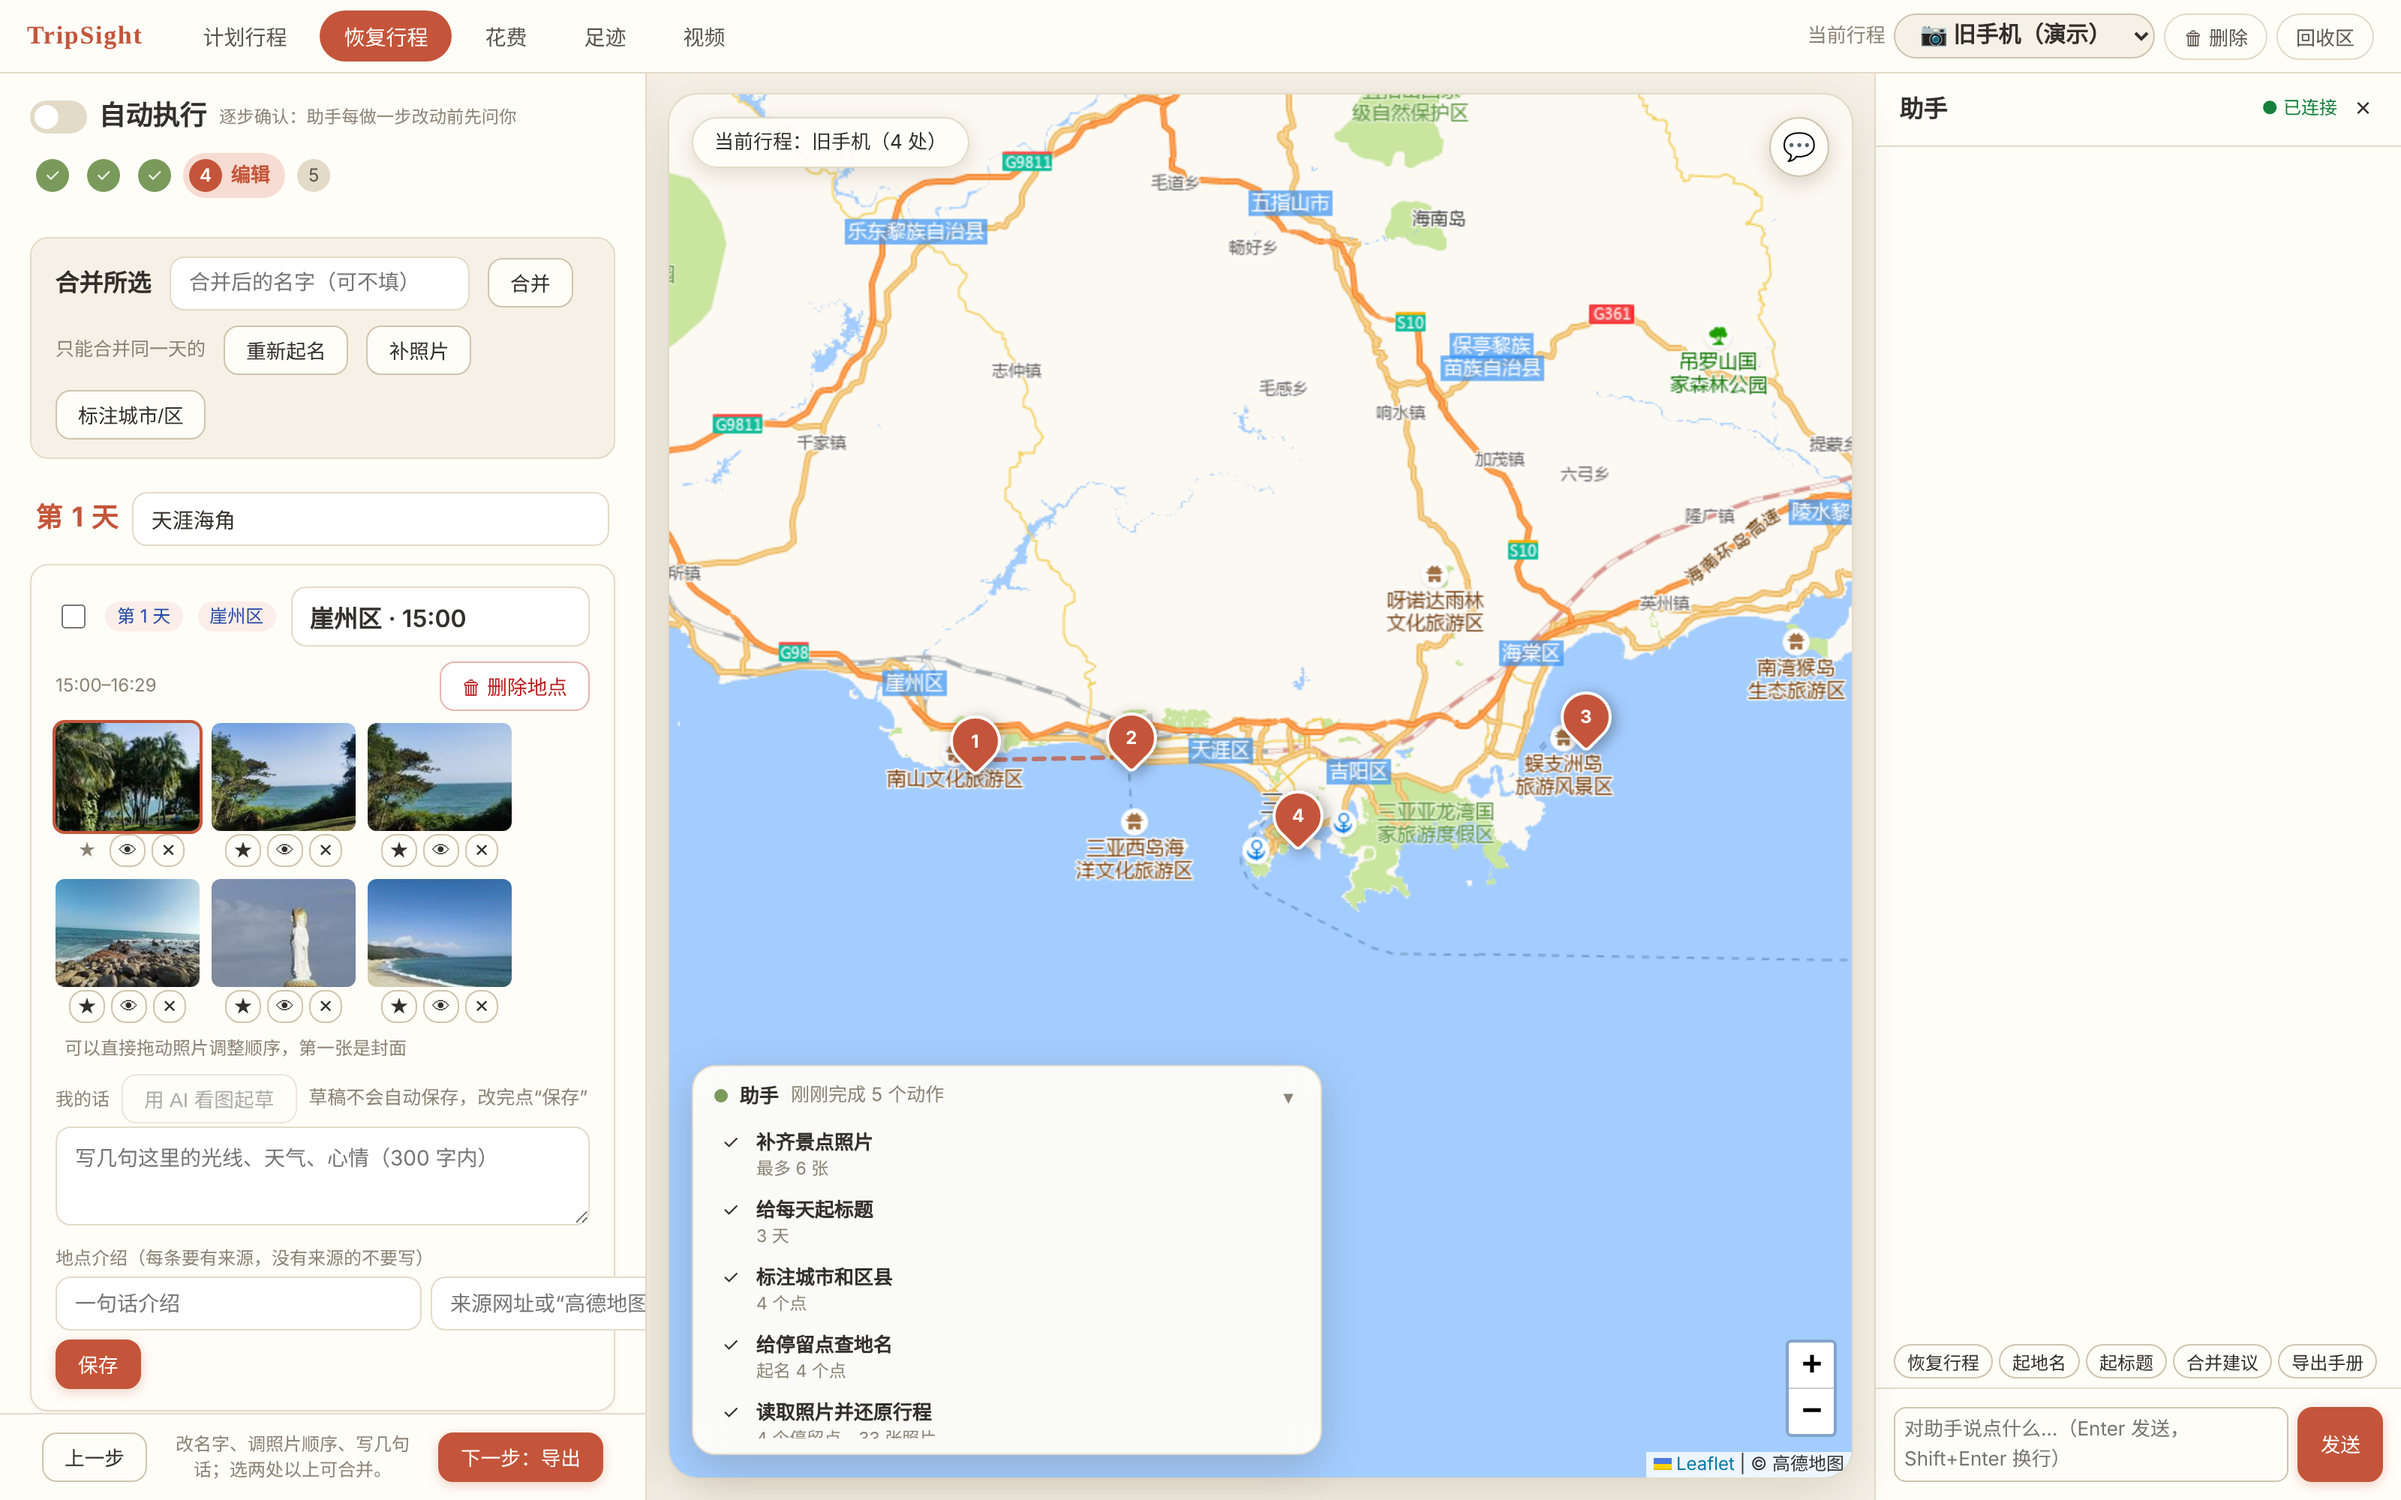
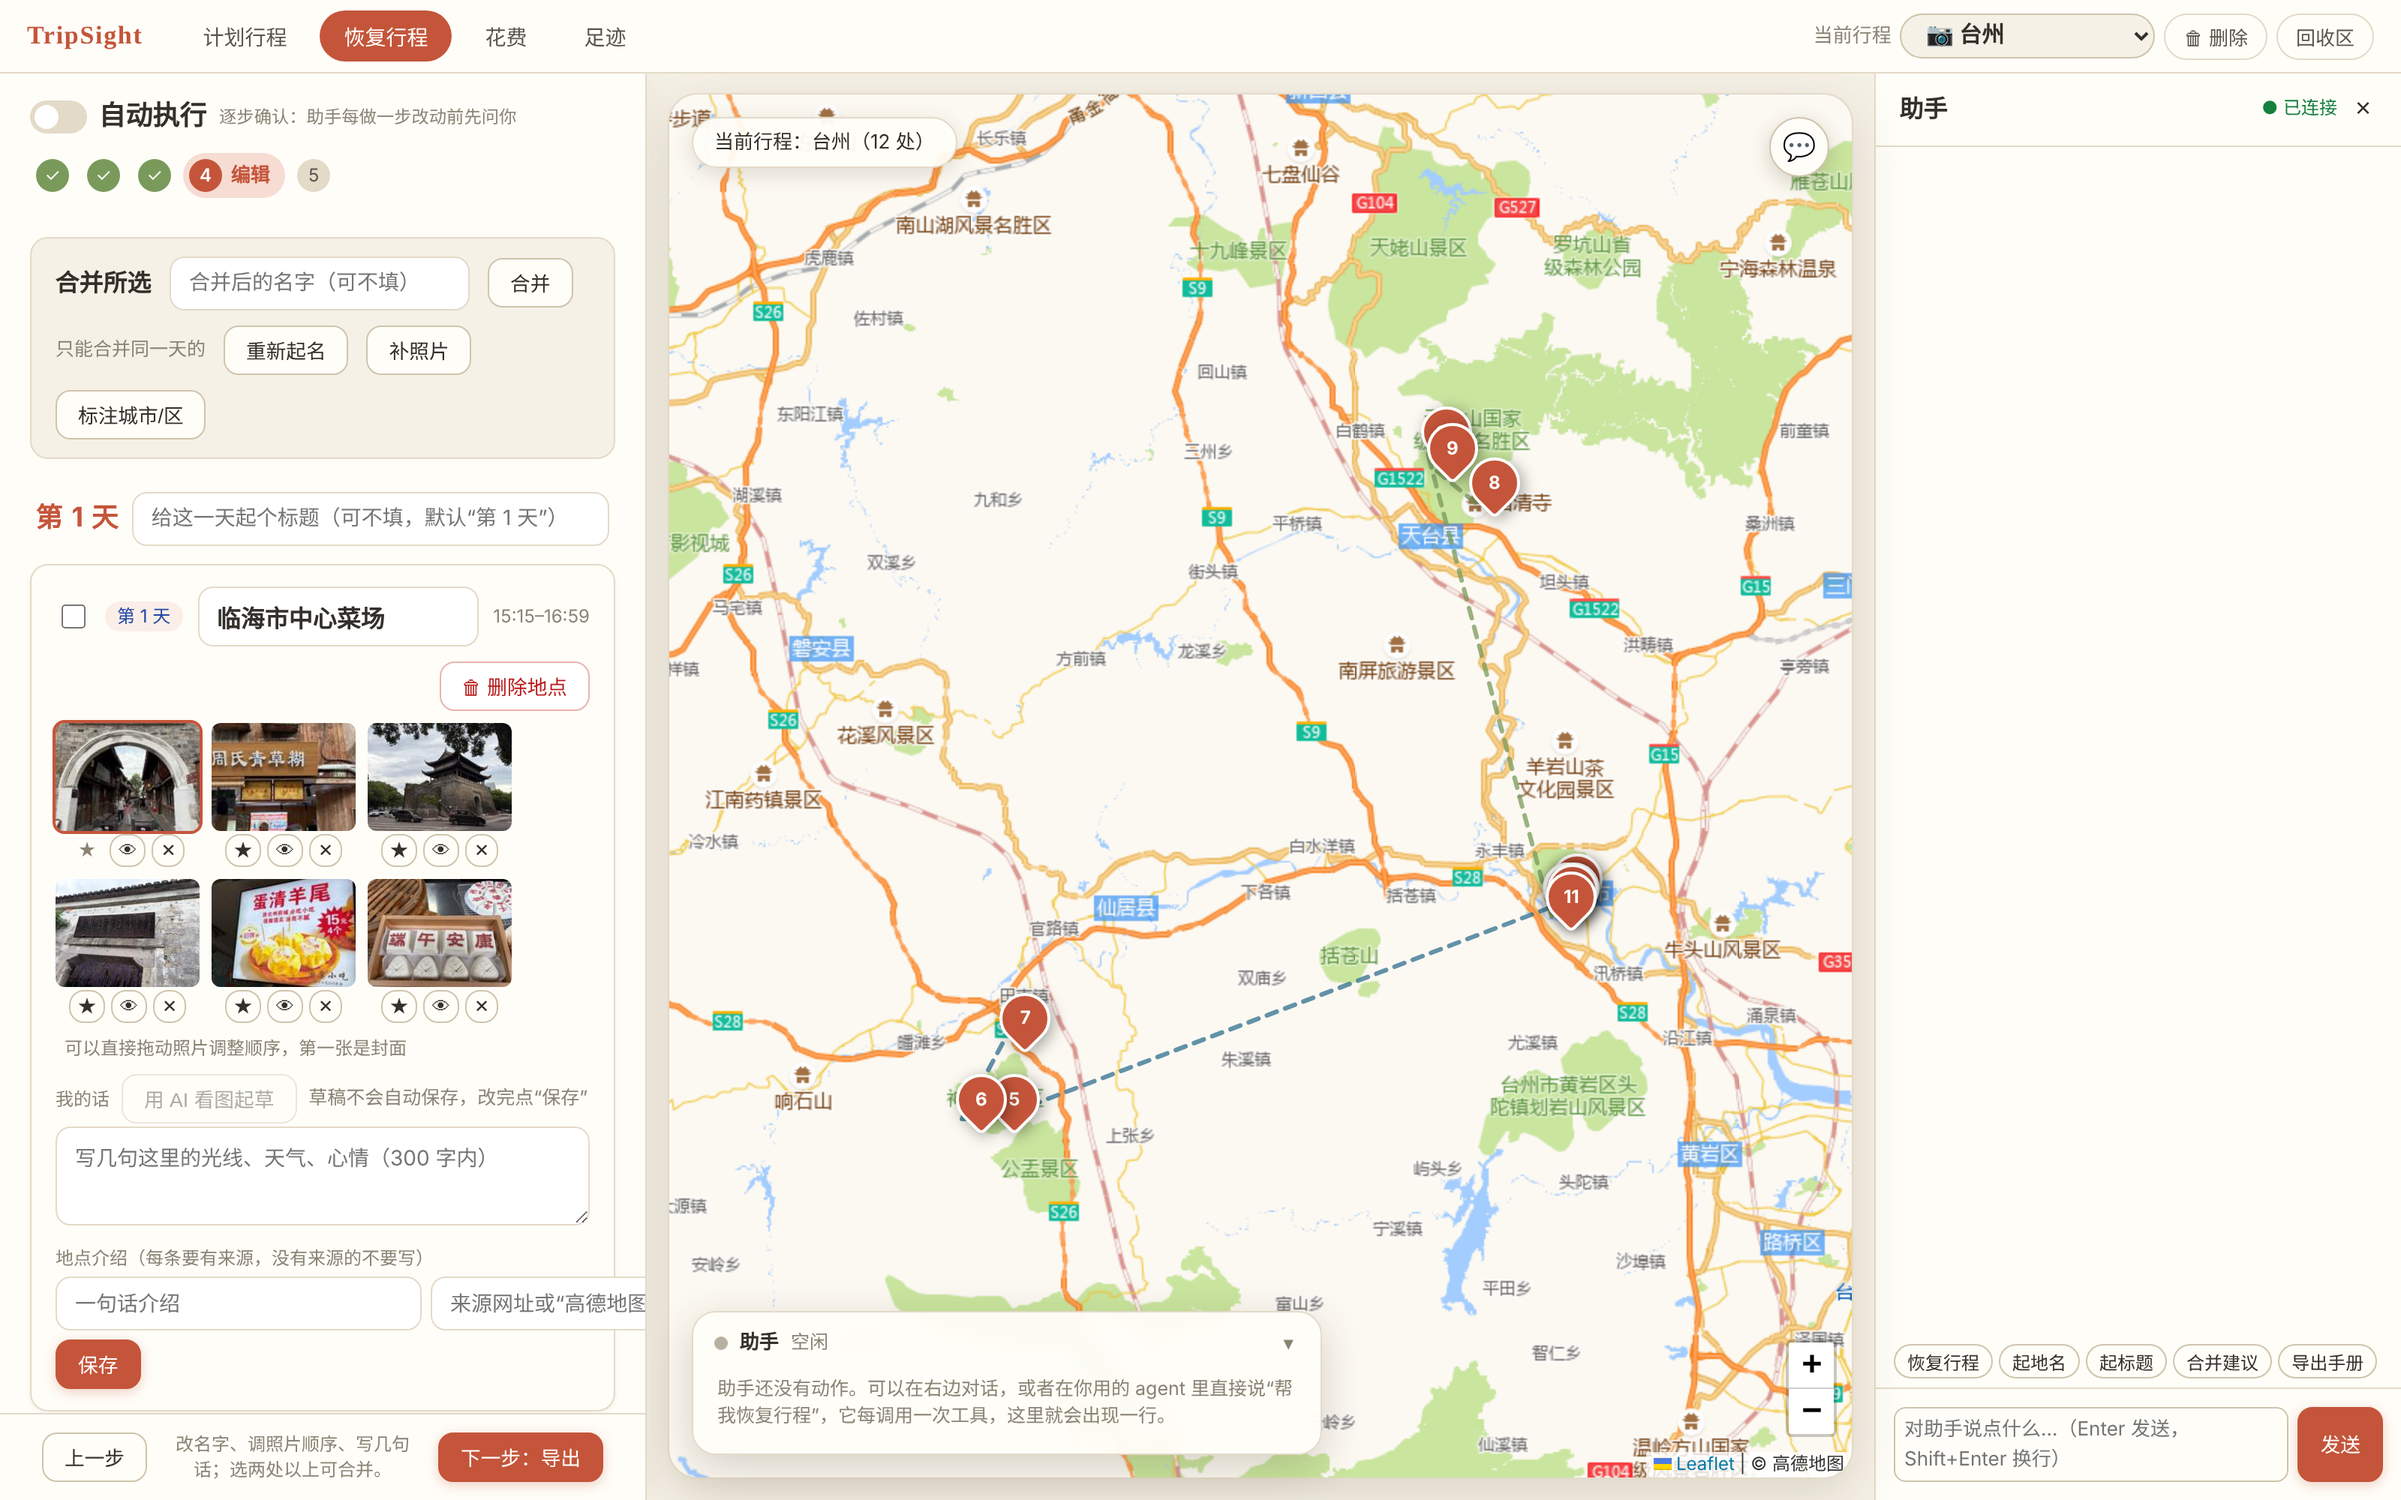
README：新首图（计划/恢复/短片全流程）、导语重写；保留旧功能小 GIF；分享风格与路线图改为缩略展示；工作台截图换成台州并去掉已删除的视频页签

diff --git a/README.en.md b/README.en.md
@@ -2,20 +2,9 @@
 
 **Your all-in-one travel assistant: plan before you go, check on the road, and rebuild the trip from your photo album when you are back.**
 
-Plug it into your own chat assistant (MCP): **plan → check on the road → restore from photos → record footprints → share**, one line from start to finish.  
-The LLM only understands you and proposes changes; scheduling, opening hours, routes, versioning and undo are deterministic code.
-
-[中文](README.md) · [Setup](docs/SETUP.md) (Chinese) · [Design notes](DESIGN.md) (Chinese)
-
-![License](https://img.shields.io/badge/license-Apache--2.0-blue)
-![Python](https://img.shields.io/badge/python-3.10%2B-3776AB)
-![Tests](https://img.shields.io/badge/tests-570%2B%20passing-brightgreen)
-![MCP tools](https://img.shields.io/badge/MCP%20tools-86-8A2BE2)
-
-<a href="docs/images/poster.png"><img src="docs/images/poster.png" alt="TripSight: plan, restore, record and share"></a>
-
-Plug it into your own chat assistant and plan a trip step by step.  
-**Open source · data stays on your machine · every step checkable and undoable**
+Plug it into your own chat assistant and follow the whole trip, from before departure to after you are back:  
+**plan** (real routes, opening hours, weather, arrival/departure transport, booking reminders) → **check on the road** (navigation, calendar, mobile map) → **restore the trip from your photos** (names, districts, day titles) → **handbook · cards · route animation · travel film** → **footprints and spending**.  
+**Open source · data stays on your machine · every step checkable and undoable · no booking, no payment**
 
 > **The LLM only proposes; scheduling, checking and undo are done by code.** Nothing changes until you confirm.
 
@@ -75,15 +64,31 @@ In TripSight the **chat assistant is the operator and the web workbench is its w
 
 **Restore: album → stay points → edit → export.** Every action of the assistant appears in the "Assistant" card.
 
-<a href="docs/images/workbench-restore.png"><img src="docs/images/workbench-restore.png" alt="Restore edit page"></a>
+<a href="docs/images/workbench-restore.png"><img src="docs/images/workbench-restore.png" alt="Restore edit page for the Taizhou trip"></a>
 
-**8 share themes, one click.** Hotels and costs are hidden by default.
+**There are many share formats; two of them in small** (click for full size): 8 share themes and the per-day route maps (plus a route-animation GIF per day). Hotels and costs are hidden by default.
 
-<a href="docs/images/showcase-themes.jpg"><img src="docs/images/showcase-themes.jpg" alt="8 share themes"></a>
+<table>
+<tr>
+<td width="50%" align="center"><a href="docs/images/showcase-themes.jpg"><img src="docs/images/showcase-themes.jpg" alt="8 share themes"></a><br><sub>8 share themes, one click</sub></td>
+<td width="50%" align="center"><a href="docs/images/showcase-routes.jpg"><img src="docs/images/showcase-routes.jpg" alt="Route maps of day 2 and day 3"></a><br><sub>Per-day route maps (optional Amap basemap)</sub></td>
+</tr>
+</table>
 
-**Per-day route maps**, plus a route-animation GIF per day (a PDF cannot play animation).
+**More small features** (older recordings, older UI, still valid):
 
-<a href="docs/images/showcase-routes.jpg"><img src="docs/images/showcase-routes.jpg" alt="Route maps of day 2 and day 3"></a>
+<p>
+<img src="docs/images/demo.gif" width="23%" alt="Drag and check">&ensp;
+<img src="docs/images/feat-closed.gif" width="23%" alt="Closures and opening hours">&ensp;
+<img src="docs/images/feat-route.gif" width="23%" alt="Real routes">&ensp;
+<img src="docs/images/feat-weather.gif" width="23%" alt="Weather">
+</p>
+<p>
+<img src="docs/images/feat-links.gif" width="23%" alt="Click-through navigation">&ensp;
+<img src="docs/images/feat-tools.gif" width="23%" alt="Tools">&ensp;
+<img src="docs/images/feat-export.gif" width="23%" alt="One-click export">&ensp;
+<img src="docs/images/feat-travelogue.gif" width="23%" alt="Travelogue">
+</p>
 
 <sub>Screens use a demo Suzhou trip (real weather forecast) and the author's old-phone Hainan album (scenery only); basemap © Amap.</sub>
 

diff --git a/README.md b/README.md
@@ -19,14 +19,19 @@
 </p>
 
 <p>
-<a href="docs/images/poster.png">
-<img src="docs/images/poster.png" alt="TripSight：旅行全流程助手——计划行程、恢复行程、记录与分享" width=100%>
+<a href="docs/images/poster.jpg">
+<img src="docs/images/poster.jpg" alt="TripSight：旅行全流程助手——计划行程、恢复行程、记录与分享" width=100%>
 </a>
 </p>
 
 <p>
-接到你自己的聊天助手（MCP）里：<b>计划行程 → 路上提醒 → 恢复行程 → 记录足迹 → 分享</b>，一条线走完。<br>
-<b>开源 · 数据在本机 · 每一步可核对、可撤销</b>
+接到你自己的聊天助手（MCP）里，<b>从出发前到回来后，一条线走完</b>：<br>
+<b>排行程</b>（真实路线、营业时间、天气、大交通、预约提醒）→ <b>路上核对</b>（导航、日历、手机地图）→<br>
+<b>把相册还原成走过的路</b>（自动起名、标区县、起每天的标题）→ <b>手册 · 卡片 · 路线动画 · 旅行短片</b> → <b>足迹与花费</b>。
+</p>
+
+<p>
+<b>开源 · 数据在本机 · 每一步可核对、可撤销 · 不订票、不付款</b>
 </p>
 
 </div>
@@ -111,15 +116,31 @@ TripSight 里，**聊天助手（Agent）是操作者，网页工作台是它的
 
 **恢复行程：相册 → 停留点 → 编辑 → 导出。** 助手的每个动作都出现在左下角的“助手”卡片里。
 
-<a href="docs/images/workbench-restore.png"><img src="docs/images/workbench-restore.png" alt="恢复行程编辑页：停留点、照片、助手完成的 5 个动作"></a>
+<a href="docs/images/workbench-restore.png"><img src="docs/images/workbench-restore.png" alt="恢复行程编辑页：台州的停留点、照片和助手"></a>
 
-**导出与分享：8 种风格，一键切换。** 同一份行程换个样子发给朋友或发布社交媒体；酒店和花费默认不公开，勾选才带。
+**分享的种类很多，下面是其中两类的缩略展示**（点开看大图）：8 种分享风格，以及每天一张按当天范围放大的路线图（还能导出分天播放的路线动画 GIF）。酒店和花费默认不公开，勾选才带。
 
-<a href="docs/images/showcase-themes.jpg"><img src="docs/images/showcase-themes.jpg" alt="8 种分享风格"></a>
+<table>
+<tr>
+<td width="50%" align="center"><a href="docs/images/showcase-themes.jpg"><img src="docs/images/showcase-themes.jpg" alt="8 种分享风格"></a><br><sub>8 种分享风格，一键切换</sub></td>
+<td width="50%" align="center"><a href="docs/images/showcase-routes.jpg"><img src="docs/images/showcase-routes.jpg" alt="第 2 天、第 3 天的路线图"></a><br><sub>分天路线图（可带高德底图）</sub></td>
+</tr>
+</table>
 
-**路线图：每天一张按当天范围放大的路线图**，可导出分天播放的路线动画 GIF（PDF 本身不能播放动画）。
+**还有这些小功能**（早先录的演示，界面是旧版，功能仍然有效）：
 
-<a href="docs/images/showcase-routes.jpg"><img src="docs/images/showcase-routes.jpg" alt="第 2 天、第 3 天的路线图"></a>
+<p>
+<img src="docs/images/demo.gif" width="23%" alt="拖动检查">&ensp;
+<img src="docs/images/feat-closed.gif" width="23%" alt="闭馆与营业时间">&ensp;
+<img src="docs/images/feat-route.gif" width="23%" alt="真实路线">&ensp;
+<img src="docs/images/feat-weather.gif" width="23%" alt="天气提示">
+</p>
+<p>
+<img src="docs/images/feat-links.gif" width="23%" alt="点击跳转导航">&ensp;
+<img src="docs/images/feat-tools.gif" width="23%" alt="工具与能力">&ensp;
+<img src="docs/images/feat-export.gif" width="23%" alt="一键导出">&ensp;
+<img src="docs/images/feat-travelogue.gif" width="23%" alt="游记生成">
+</p>
 
 <sub>图中为演示用的苏州 3 日行程（天气为真实预报）和作者旧手机的海南相册（只选风景）；底图 © 高德地图。以上截图为演示重放生成。</sub>
 
